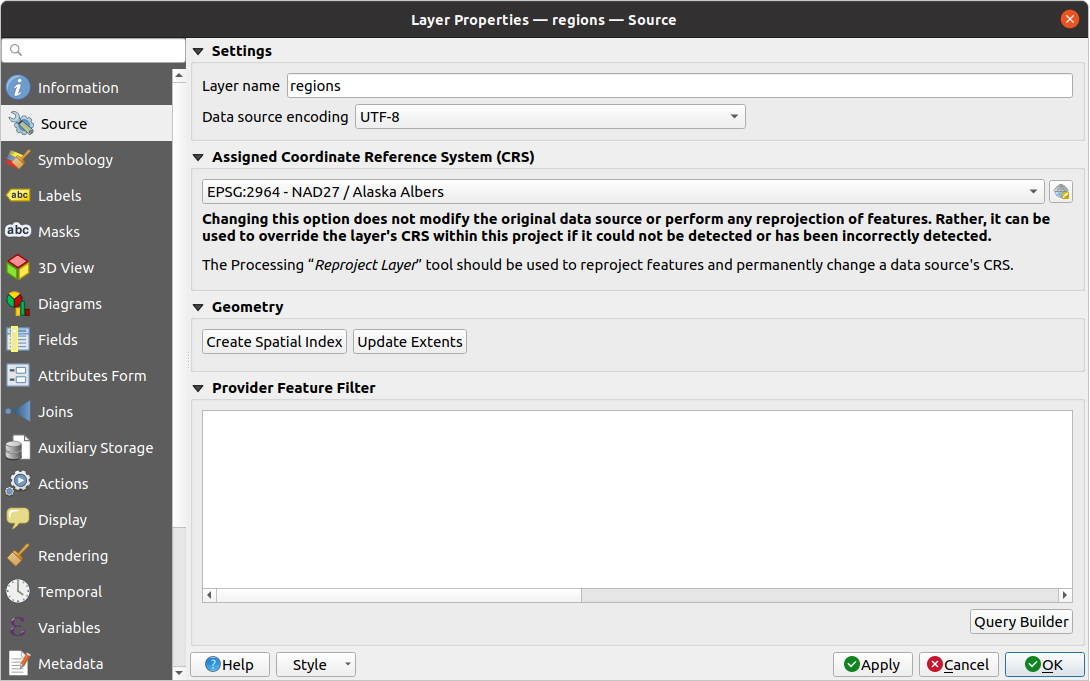
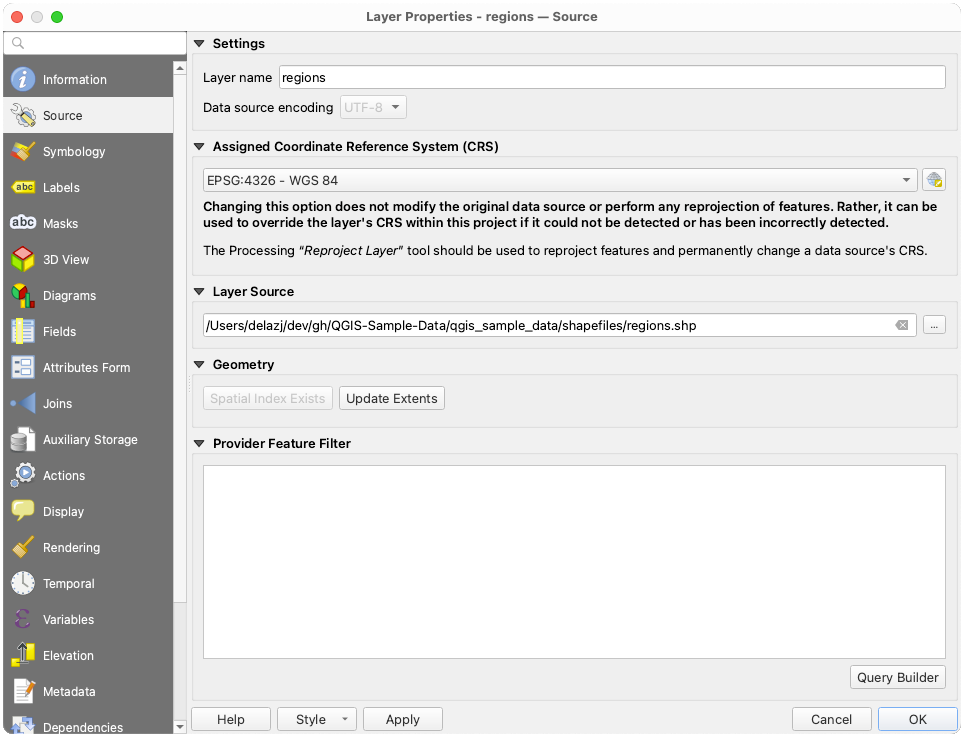
Mention "Layer source" widget in "Source" tab of layer properties

Changed region(s): [[0.0, 0.0, 1.0, 1.0], [0.9336, 0.4009, 0.9647, 0.4626]]

diff --git a/docs/user_manual/working_with_vector/vector_properties.rst b/docs/user_manual/working_with_vector/vector_properties.rst
@@ -122,8 +122,8 @@ Settings
 * Depending on the data format, select the :guilabel:`Data source encoding` if not
   correctly detected by QGIS.
 
-Coordinate Reference System and Geometry
-----------------------------------------
+Coordinate Reference System
+---------------------------
 
 * Displays the layer's :ref:`Assigned Coordinate Reference System (CRS) <layer_crs>`.
   You can change the layer's CRS, selecting a recently used one
@@ -132,7 +132,22 @@ Coordinate Reference System and Geometry
   layer is a wrong one or if none was applied.
   If you wish to reproject your data into another CRS, rather use layer reprojection
   algorithms from Processing or :ref:`Save it into another layer <general_saveas>`.
-* :guilabel:`Create spatial index` (only for OGR-supported formats).
+
+Layer source and Geometry
+-------------------------
+
+* Depending on the data provider, a :guilabel:`Layer source` group indicates the path
+  to the source of the dataset and allows for replacing the loaded layer:
+
+  * When the layer is stored as file on disk, edit the path shown in the text box
+    or press :guilabel:`...` :sup:`Browse` to select another file on the disk.
+    Both layers do not need to share attribute fields, geometry type or file formats.
+  * When the layer is provided by an ArcGIS Feature service,
+    it is possible to modify its :ref:`authentication settings <authentication>`,
+    while keeping unchanged the details for connecting to the service.
+
+* :guilabel:`Create spatial index` (only for OGR-supported formats): helps speeding
+  layer rendering and features' geometry retrieval.
 * :guilabel:`Update extents` information for a layer.
 
 .. index:: Query builder

diff --git a/docs/user_manual/working_with_vector_tiles/vector_tiles.rst b/docs/user_manual/working_with_vector_tiles/vector_tiles.rst
@@ -83,7 +83,7 @@ Provided information are:
   More properties can be created and managed using PyQGIS, specifically through
   the :pyqgis:`setCustomProperty() <qgis.core.QgsMapLayer.setCustomProperty>` method.
 * the Coordinate Reference System: name, units, method, accuracy, reference
-  (i.e. whether it's static or dynamic)
+  (i.e., whether it is static or dynamic)
 * picked from the :ref:`filled metadata <vectortilesmetadatamenu>`: access,
   extents, links, contacts, history...
 
@@ -97,12 +97,16 @@ the selected vector tile, including:
 
 * the :guilabel:`Layer name` to display in the :guilabel:`Layers Panel`;
 * the :guilabel:`Coordinate Reference System`:
-  Displays the layer's
-  :ref:`Coordinate Reference System (CRS) <layer_crs>`.
+  Displays the layer's :ref:`Coordinate Reference System (CRS) <layer_crs>`.
   You can change the layer's CRS, by selecting a recently used one in
   the drop-down list or clicking on the |setProjection|
   :sup:`Select CRS` button (see :ref:`crs_selector`).
   Use this process only if the layer CRS is wrong or not specified.
+* For file based vector tiles (:file:`.vtpk` or :file:`.mbtiles`),
+  a :guilabel:`Layer source` group indicates the path to the source
+  of the dataset and allows for replacing the loaded layer.
+  Edit the path shown in the text box or press :guilabel:`...` :sup:`Browse`
+  to select another file on the disk.
 
 .. _figure_vector_tile_source:
 

diff --git a/docs/user_manual/working_with_raster/raster_properties.rst b/docs/user_manual/working_with_raster/raster_properties.rst
@@ -114,6 +114,19 @@ the selected raster, including:
   If you wish to reproject your data, use a reprojection algorithm
   from Processing or
   :ref:`Save it as new dataset <general_saveas>`.
+* Depending on the data provider, a :guilabel:`Layer source` group indicates the path
+  to the source of the dataset and allows for replacing the loaded layer:
+
+  * When the layer is stored as file on disk, edit the path shown in the text box
+    or press :guilabel:`...` :sup:`Browse` to select another file on the disk
+  * When the layer is provided by an ArcGIS MapServer service,
+    it is possible to modify its :ref:`authentication settings <authentication>`,
+    while keeping unchanged the details for connecting to the service.
+  * For an XYZ remote layer, it is possible to modify at the layer level
+    any of their :ref:`connection details <xyz_tile>` (URL, authentication settings,
+    zoom levels, resolution, ...).
+    Modifications are applied to the layer without altering the original connection settings.
+
 
 .. _figure_raster_properties:
 
